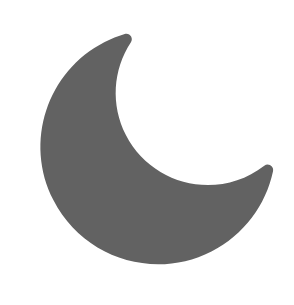
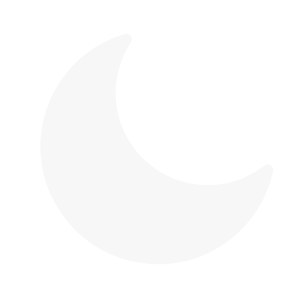
Integrate JS logic with DOM

Changed region(s): [[0.1224, 0.0885, 0.949, 0.8852]]

diff --git a/js/script.js b/js/script.js
@@ -1,71 +1,131 @@
 const themeBtn = document.querySelector(".theme-btn");
 const themeIcon = document.querySelector(".theme-btn img");
+const playerChoice = document.querySelector(".player-choice");
+const computerChoice = document.querySelector(".computer-choice");
+const options = document.querySelector(".options");
+const resultContent = document.querySelector(".result-content");
+const resultText = document.querySelector(".result");
+const playerScoreText = document.querySelector(".player-score");
+const computerScoreText = document.querySelector(".computer-score");
+const playAgainBtn = document.querySelector(".play-again-btn");
+let playerScore = 0;
+let computerScore = 0;
+// Theme change logic
+const toggleIcon = () => {
+    if (document.body.classList.contains("dark-theme")) {
+        themeIcon.src = "assets/images/sun.png";
+    }
+    else {
+        themeIcon.src = "assets/images/moon.png";
+    }
+}
+
+// Initialising the page with correct icons
+toggleIcon();
 
 themeBtn.addEventListener("click", () => {
     document.body.classList.toggle("dark-theme");
-    if (document.body.classList.contains("dark-theme")) {
-        themeIcon.src = "assets/images/moon.png";
-    }
-    else {
-        themeIcon.src = "assets/images/sun.png";
-    }
+    toggleIcon();
 })
 
+function getComputerChoice() {
+    const options = ["Rock", "Paper", "Scissors"];
+    const index = Math.floor(Math.random() * 3);
+    return options[index];
+}
 
-// function getComputerChoice() {
-//     const options = ["Rock", "Paper", "Scissors"];
-//     const index = Math.floor(Math.random() * 3);
-//     return options[index];
-// }
+function playRound(playerSelection, computerSelection) {
+    var isPlayerWinner = 0;
+    if (playerSelection.toLowerCase() === computerSelection.toLowerCase()) isPlayerWinner = 2;
+    else if (playerSelection.toLowerCase() === 'rock') {
+        isPlayerWinner = computerSelection.toLowerCase() === 'scissors' ? 1 : 0;
+    }
+    else if (playerSelection.toLowerCase() === 'paper') {
+        isPlayerWinner = computerSelection.toLowerCase() === 'rock' ? 1 : 0;
+    }
+    else if (playerSelection.toLowerCase() === 'scissors') {
+        isPlayerWinner = computerSelection.toLowerCase() === 'paper' ? 1 : 0;
+    }
+    else {
+        isPlayerWinner = -1;
+    }
+    return isPlayerWinner;
+}
+
+function compareResult(output) {
+    switch (output) {
+        case 0:
+            return "You lost!";
+        case 1:
+            return "You won!";
+        case 2:
+            return "It is a tie";
+        default:
+            return "Wrong input";
+    }
+}
+
+function resetGame() {
+    playerScore = 0;
+    computerScore = 0;
+    updateScore(playerScore, computerScore); // Need to make a state manager for the scores
+    resultContent.style.display = "none";
+    options.addEventListener("click", getInput);
+}
+
+function updateScore(playerScore, computerScore) {
+    playerScoreText.textContent = playerScore;
+    computerScoreText.textContent = computerScore;
+}
+
+function endGame() {
+    resultContent.style.display = "block";
+    options.removeEventListener("click", getInput);
+}
+
+function updateIcon(element, choice) {
+    switch (choice.toLowerCase()) {
+        case 'rock': element.children[0].src = "assets/images/Rock.svg";
+            break;
+        case 'paper': element.children[0].src = "assets/images/Paper.svg";
+            break;
+        case 'scissors': element.children[0].src = "assets/images/Scissors.svg";
+            break;
+    }
+}
 
 
-// function playRound(playerSelection, computerSelection) {
-//     console.log(computerSelection);
-//     var isPlayerWinner = 0;
-//     if (playerSelection.toLowerCase() === computerSelection.toLowerCase()) isPlayerWinner = 2;
-//     else if (playerSelection.toLowerCase() === 'rock') {
-//         isPlayerWinner = computerSelection.toLowerCase() === 'scissors' ? 1 : 0;
-//     }
-//     else if (playerSelection.toLowerCase() === 'paper') {
-//         isPlayerWinner = computerSelection.toLowerCase() === 'rock' ? 1 : 0;
-//     }
-//     else if (playerSelection.toLowerCase() === 'scissors') {
-//         isPlayerWinner = computerSelection.toLowerCase() === 'paper' ? 1 : 0;
-//     }
-//     else {
-//         isPlayerWinner = -1;
-//     }
-//     return isPlayerWinner;
-// }
+function getInput(event) {
+    let optionElement = event.target;
+    if (optionElement.tagName === "IMG") optionElement = optionElement.parentElement;
+    let playerSelection = "";
+    let computerSelection = getComputerChoice();
+    if (optionElement.classList.contains("rock")) playerSelection = "rock";
+    if (optionElement.classList.contains("paper")) playerSelection = "paper";
+    if (optionElement.classList.contains("scissors")) playerSelection = "scissors";
+    updateIcon(playerChoice, playerSelection);
+    updateIcon(computerChoice, computerSelection);
+    const output = playRound(playerSelection, computerSelection);
+    if (output == 1) playerScore++;
+    else if (output == 0) computerScore++;
+    console.log(`${playerScore} - ${computerScore}`)
+    updateScore(playerScore, computerScore);
+    if (playerScore === 5) {
+        resultText.textContent = "YOU WON";
+        endGame();
+    }
+    else if (computerScore === 5) {
+        resultText.textContent = "YOU LOST";
+        endGame();
+    }
+}
 
-// function compareResult(output) {
-//     switch (output) {
-//         case 0:
-//             return "You lost!";
-//         case 1:
-//             return "You won!";
-//         case 2:
-//             return "It is a tie";
-//         default:
-//             return "Wrong input";
-//     }
-// }
+function playGame() {
+    updateScore(playerScore, computerScore);
+    options.addEventListener("click", getInput);
+    playAgainBtn.addEventListener("click", () => {
+        resetGame();
+    })
+}
 
-// function playGame() {
-//     var playerScore = 0;
-//     var computerScore = 0;
-//     for (var i = 0; i < 5; i++) {
-//         const playerSelection = prompt("Enter your choice", "Rock");
-//         const output = playRound(playerSelection, getComputerChoice());
-//         if (output == 1) playerScore++;
-//         else if (output == 0) computerScore++;
-//         console.log(compareResult(output));
-//     }
-//     console.log(`Your score ${playerScore}`);
-//     console.log(`Computer score ${computerScore}`);
-//     if (playerScore === computerScore) console.log("It is a tie");
-//     else if (playerScore > computerScore) console.log("You won the game!");
-//     else console.log("You lost the game!");
-// }
-
-// playGame();
+playGame();

diff --git a/index.html b/index.html
@@ -12,13 +12,13 @@
     <script src="js/script.js" defer></script>
 </head>
 
-<body>
+<body class="dark-theme">
     <div class="theme-btn">
-        <img src="assets/images/sun.png" alt="">
+        <img src="assets/images/moon.png" alt="">
     </div>
     <div class="content">
         <h1 class="score-title">score</h1>
-        <h1 class="score"><span>3</span>-<span>2</span></h1>
+        <h1 class="score"><span class="player-score">3</span>-<span class="computer-score">2</span></h1>
         <div class="play-area">
             <div class="player-choice">
                 <img src="./assets/images/Rock.svg" alt="">
@@ -34,12 +34,14 @@
             <div class="paper option">
                 <img src="./assets/images/Paper.svg" alt="">
             </div>
-            <div class="scissorsi option">
+            <div class="scissors option">
                 <img src="./assets/images/Scissors.svg" alt="">
             </div>
         </div>
-        <h1 class="result">You Won</h1>
-        <button class="play-again-btn">Play Again</button>
+        <div class="result-content">
+            <h1 class="result">You Won</h1>
+            <button class="play-again-btn">Play Again</button>
+        </div>
     </div>
 </body>
 

diff --git a/css/style.css b/css/style.css
@@ -7,6 +7,7 @@
     padding: 0;
     margin: 0;
     box-sizing: border-box;
+    overflow: hidden;
 }
 
 .dark-theme {
@@ -110,13 +111,17 @@ body {
     letter-spacing: 10px;
     padding: 10px 40px;
     border-radius: 120px;
-    margin-top: 50px;
+    margin-top: 30px;
     cursor: pointer;
     transition: 0.2s;
 }
 
 .play-again-btn:hover {
     transform: scale(0.9);
+}
+
+.result-content {
+    display: none;
 }
 
 @media (max-width: 500px) {
